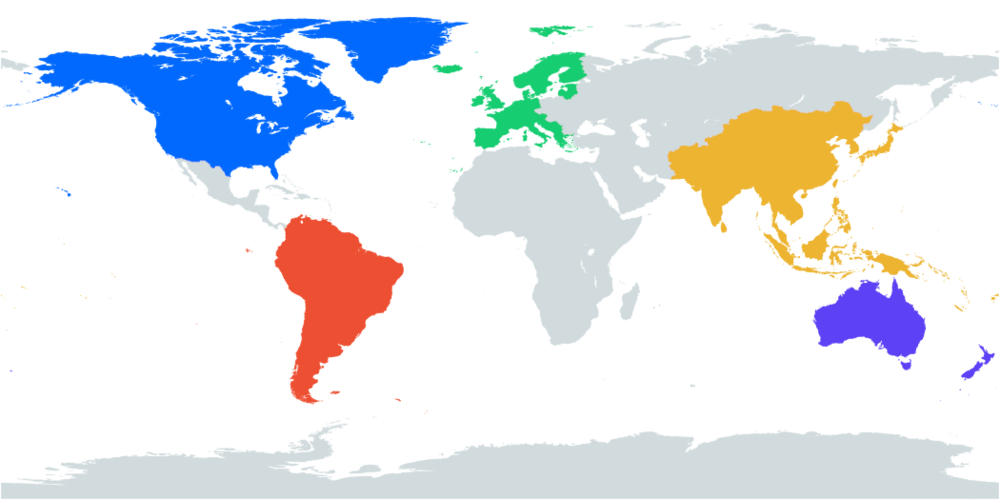
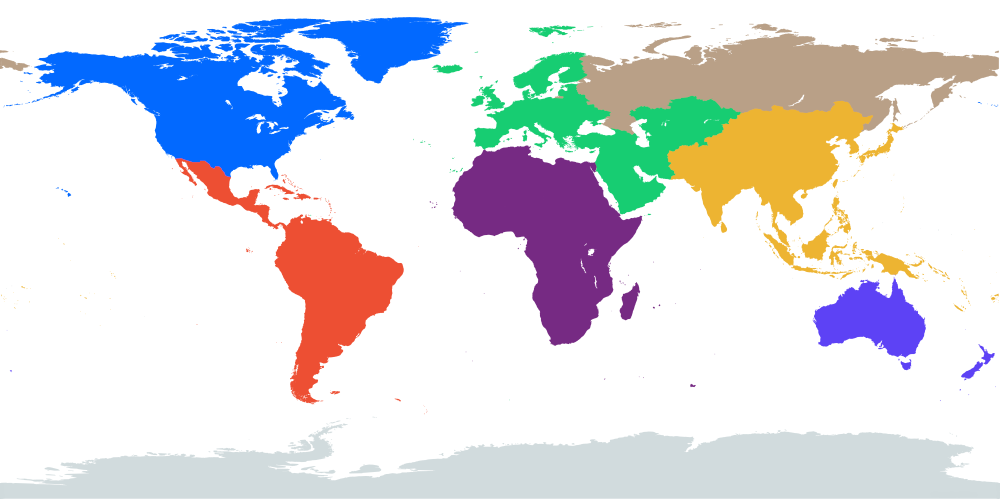
Update region map

diff --git a/src/components/Globe/components/Sphere/Sphere.tsx b/src/components/Globe/components/Sphere/Sphere.tsx
@@ -1,10 +1,15 @@
 import React, { useRef, useEffect } from 'react';
-import { useThree } from '@react-three/fiber';
+import { useThree, useFrame } from '@react-three/fiber';
 import { useControls } from 'leva';
 import * as THREE from 'three';
+import { useStore } from '../../store';
+import { radian2Degree, geo2CanvasXY, getRegionFromColor } from '../../utils';
 
 import vertexShader from './shader/vertex.glsl';
 import fragmentShader from './shader/fragment.glsl';
+
+const CANVAS_WIDTH = 1000;
+const CANVAS_HEIGHT = CANVAS_WIDTH / 2;
 
 const MyFirstShader = {
   uniforms: {
@@ -16,12 +21,24 @@ const MyFirstShader = {
   fragmentShader: fragmentShader,
 };
 
-const Sphere = () => {
+const Sphere = ({ worldmap }: any) => {
   const { fresnel_color } = useControls({
     fresnel_color: '#20196f',
   });
 
+  const getPixelData = (x, y) => {
+    const i = Math.floor(y - 1) * CANVAS_WIDTH * 4 + Math.floor(x) * 4;
+    return [worldmap[i], worldmap[i + 1], worldmap[i + 2], worldmap[i + 3]];
+  };
+
   const sphereRef = useRef<THREE.Mesh>(null);
+  const raycasterRef = useRef<THREE.Raycaster>();
+  const mousePos = useRef<{
+    x: number;
+    y: number;
+    realX: number;
+    realY: number;
+  } | null>(null);
 
   useEffect(() => {
     if (sphereRef.current) {
@@ -31,15 +48,97 @@ const Sphere = () => {
     }
   }, [fresnel_color]);
 
-  // Remove this will cause rendering issues
-  useThree();
+  const { size, camera } = useThree();
+
+  const getTheta = (x, y) => {
+    const theta = radian2Degree(Math.atan(y / x));
+
+    // x is z y is x
+
+    if (x < 0 && y > 0) {
+      return 90 + theta + 90;
+    }
+
+    if (x < 0 && y < 0) {
+      return 180 + theta;
+    }
+
+    if (x > 0 && y < 0) {
+      return 270 + 90 + theta;
+    }
+
+    return theta;
+  };
+
+  const getPhi = (x, y, z) => {
+    const phi = radian2Degree(Math.atan(Math.sqrt(x * x + y * y) / z));
+    if (phi < 0) {
+      return 90 + (90 + phi);
+    }
+    return phi;
+  };
+
+  const setRegion = useStore((state) => state.setRegion);
+
+  const frame = useRef(0);
+
+  useFrame(() => {
+    frame.current += 1;
+
+    if (frame.current % 4 === 0) {
+      if (raycasterRef.current && mousePos.current) {
+        raycasterRef.current.setFromCamera(
+          { x: mousePos.current.x, y: mousePos.current.y },
+          camera
+        );
+        const intersect = raycasterRef.current.intersectObjects([
+          sphereRef.current,
+        ]);
+        if (intersect.length) {
+          const { x, y, z } = intersect[0].point;
+
+          const pos = geo2CanvasXY(
+            getPhi(z, x, y) - 90,
+            getTheta(z, x) - 180,
+            CANVAS_HEIGHT,
+            CANVAS_WIDTH
+          );
+          const pixel = getPixelData(pos.x, pos.y);
+
+          const [r, g, b] = pixel;
+
+          if (r === 0 && g === 0 && b === 0) setRegion(null);
+
+          setRegion(getRegionFromColor(r, g, b));
+        }
+      }
+    }
+  });
 
   return (
     <>
-      <mesh ref={sphereRef} position={[0, 0, 0]}>
+      <mesh
+        ref={sphereRef}
+        position={[0, 0, 0]}
+        onPointerMove={(event: any) => {
+          const x = (event.offsetX / size.width) * 2 - 1;
+          const y = -(event.offsetY / size.height) * 2 + 1;
+
+          mousePos.current = {
+            x: x,
+            y: y,
+            realX: event.offsetX,
+            realY: event.offsetY,
+          };
+        }}
+        onPointerLeave={() => {
+          mousePos.current = null;
+        }}
+      >
         <sphereGeometry attach="geometry" args={[600, 32 * 2, 32 * 2]} />
         <shaderMaterial transparent attach="material" args={[MyFirstShader]} />
       </mesh>
+      <raycaster ref={raycasterRef} />
     </>
   );
 };

diff --git a/src/components/Globe/Globe.tsx b/src/components/Globe/Globe.tsx
@@ -11,10 +11,11 @@ import Sphere from './components/Sphere';
 import Dots from './components/Dots';
 import Marker from './components/Marker';
 import Arc from './components/Arc';
+import { useStore } from './store';
 import useInterval from '@/hooks/useInterval';
 
-const CANVAS_HEIGHT = 500 / 2;
-const CANVAS_WIDTH = CANVAS_HEIGHT * 2;
+const CANVAS_WIDTH = 1000;
+const CANVAS_HEIGHT = CANVAS_WIDTH / 2;
 
 const SERVERS = [
   {
@@ -82,6 +83,16 @@ const SERVERS = [
   },
 ];
 
+const REGION_MAP = {
+  na: 'North America',
+  sa: 'Latin America',
+  eu: 'Eurasia',
+  ap: 'Asia Pacific',
+  au: 'Australia',
+  af: 'Africa',
+  ru: 'Russia (Not Available)',
+};
+
 const Scene = () => {
   const [mapIns, setMapIns] = useState<any>();
   const oc = useRef<any>(null);
@@ -138,8 +149,8 @@ const Scene = () => {
     <>
       <OrbitControls
         ref={oc}
-        autoRotate
-        enableZoom={false}
+        // autoRotate
+        // enableZoom={false}
         enablePan={false}
         autoRotateSpeed={0.1}
         enableDamping={false}
@@ -148,7 +159,7 @@ const Scene = () => {
         {mapIns && (
           <>
             <Glow />
-            <Sphere />
+            <Sphere worldmap={mapIns} />
             <Dots worldmap={mapIns} />
             <CanadaFlag />
 
@@ -195,6 +206,23 @@ const StyledGlobe = styled.div`
 `;
 
 const Globe = () => {
+  const region = useStore((state) => state.region);
+  const overlayRef = useRef<HTMLDivElement | null>(null);
+
+  useEffect(() => {
+    const saveMousePos = (e: any) => {
+      if (overlayRef.current) {
+        overlayRef.current.style.left = `${e.clientX + 10}px`;
+        overlayRef.current.style.top = `${e.clientY + 10}px`;
+      }
+    };
+
+    window.addEventListener('mousemove', saveMousePos);
+    return () => {
+      window.removeEventListener('mousemove', saveMousePos);
+    };
+  }, []);
+
   return (
     <StyledGlobe>
       <Leva collapsed hidden />
@@ -216,6 +244,31 @@ const Globe = () => {
           {/* <Stats /> */}
         </Suspense>
       </Canvas>
+      <div
+        ref={overlayRef}
+        style={{
+          display: region && region !== 'n/a' ? 'block' : 'none',
+          borderRadius: '4px',
+          fontFamily: "'Inter', sans-serif",
+          padding: '1rem',
+          color: 'white',
+          backgroundColor: 'rgba(0, 0, 0, 0.4)',
+          backdropFilter: 'blur(10px)',
+          minWidth: '200px',
+          minHeight: '45px',
+          position: 'fixed',
+        }}
+      >
+        <div>{REGION_MAP[region]}</div>
+        <div
+          style={{
+            color: '#a3a2a2',
+            marginTop: '10px',
+          }}
+        >
+          Lorem ipsum dolor sit amet, consectetur adipisicing elit.
+        </div>
+      </div>
     </StyledGlobe>
   );
 };

diff --git a/src/components/Globe/utils/index.ts b/src/components/Globe/utils/index.ts
@@ -34,17 +34,73 @@ export const getRegionFromColor = (r: number, g: number, b: number) => {
     case isSimilarColor({ r, g, b }, { r: 93, g: 66, b: 245 }): {
       return 'au';
     }
+    // Compensating color due to resolution
+    case isSimilarColor({ r, g, b }, { r: 89, g: 100, b: 209 }): {
+      return 'na';
+    }
+    // Compensating color due to resolution
+    case isSimilarColor({ r, g, b }, { r: 112, g: 96, b: 195 }): {
+      return 'na';
+    }
     case isSimilarColor({ r, g, b }, { r: 2, g: 105, b: 255 }): {
       return 'na';
     }
     case isSimilarColor({ r, g, b }, { r: 23, g: 205, b: 114 }): {
       return 'eu';
     }
+    // Compensating color due to resolution
+    case isSimilarColor({ r, g, b }, { r: 178, g: 187, b: 67 }): {
+      return 'eu';
+    }
+    // Compensating color due to resolution
+    case isSimilarColor({ r, g, b }, { r: 118, g: 199, b: 103 }): {
+      return 'eu';
+    }
+    // Compensating color due to resolution
+    case isSimilarColor({ r, g, b }, { r: 56, g: 204, b: 122 }): {
+      return 'eu';
+    }
+    // Compensating color due to resolution
+    case isSimilarColor({ r, g, b }, { r: 202, g: 187, b: 73 }): {
+      return 'eu';
+    }
+    // Compensating color due to resolution
+    case isSimilarColor({ r, g, b }, { r: 87, g: 202, b: 108 }): {
+      return 'eu';
+    }
+    // Compensating color due to resolution
+    case isSimilarColor({ r, g, b }, { r: 164, g: 193, b: 91 }): {
+      return 'eu';
+    }
     case isSimilarColor({ r, g, b }, { r: 237, g: 79, b: 51 }): {
+      return 'sa';
+    }
+    case isSimilarColor({ r, g, b }, { r: 94, g: 101, b: 235 }): {
+      return 'sa';
+    }
+    case isSimilarColor({ r, g, b }, { r: 153, g: 95, b: 202 }): {
+      return 'sa';
+    }
+    case isSimilarColor({ r, g, b }, { r: 183, g: 91, b: 173 }): {
+      return 'sa';
+    }
+    case isSimilarColor({ r, g, b }, { r: 228, g: 81, b: 83 }): {
+      return 'sa';
+    }
+    case isSimilarColor({ r, g, b }, { r: 67, g: 103, b: 245 }): {
+      return 'sa';
+    }
+    case isSimilarColor({ r, g, b }, { r: 191, g: 89, b: 162 }): {
       return 'sa';
     }
     case isSimilarColor({ r, g, b }, { r: 237, g: 180, b: 50 }): {
       return 'ap';
+    }
+    case isSimilarColor({ r, g, b }, { r: 118, g: 42, b: 131 }): {
+      return 'af';
+    }
+    case isSimilarColor({ r, g, b }, { r: 185, g: 160, b: 135 }): {
+      return 'ru';
     }
     case isSimilarColor({ r, g, b }, { r: 209, g: 219, b: 221 }): {
       return 'n/a';

diff --git a/src/components/Globe/components/Dots/Dots.tsx b/src/components/Globe/components/Dots/Dots.tsx
@@ -1,11 +1,22 @@
 import React, { useEffect, useRef, useCallback } from 'react';
 import * as THREE from 'three';
 import { Vector3 } from 'three';
-import { degree2Radian, geo2CanvasXY } from '../../utils';
+import { degree2Radian, geo2CanvasXY, getRegionFromColor } from '../../utils';
 
 const COUNT = 21430;
-const CANVAS_HEIGHT = 500 / 2;
-const CANVAS_WIDTH = CANVAS_HEIGHT * 2;
+const CANVAS_WIDTH = 1000;
+const CANVAS_HEIGHT = CANVAS_WIDTH / 2;
+
+const REGION_COLOR = {
+  na: '#0269ff',
+  sa: '#ed4f33',
+  eu: '#17cd72',
+  ap: '#edb432',
+  au: '#5d42f5',
+  af: '#321e79',
+  ru: '#151b37',
+  'n/a': '#151b37',
+};
 
 const geometry = new THREE.CircleBufferGeometry(2, 5);
 const material = new THREE.MeshStandardMaterial();
@@ -57,7 +68,9 @@ const Dots = ({ worldmap }) => {
             temp.updateMatrix();
             ref.current.setMatrixAt(i, temp.matrix);
 
-            ref.current.setColorAt(i, color.set('#151b37'));
+            const [r, g, b] = pixel;
+            let region = getRegionFromColor(r, g, b) || 'n/a';
+            ref.current.setColorAt(i, color.set(REGION_COLOR[region]));
 
             i++;
           }

diff --git a/src/components/Globe/store/index.ts b/src/components/Globe/store/index.ts
@@ -1,0 +1,15 @@
+import create from 'zustand';
+
+type Store = {
+  region: any;
+  setRegion: (region: any) => void;
+  mouse: any;
+  setMouse: (mouse: any) => void;
+};
+
+export const useStore = create<Store>((set) => ({
+  region: null,
+  setRegion: (region) => set((state) => ({ region })),
+  mouse: { x: 0, y: 0 },
+  setMouse: (mouse) => set((state) => ({ mouse })),
+}));
